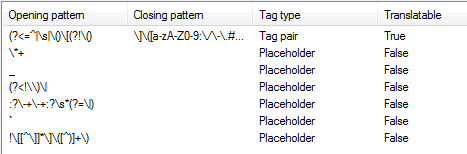
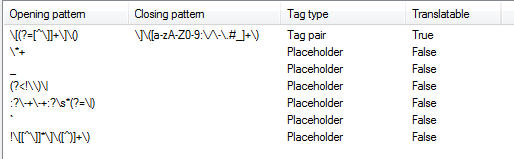
Fixed the link regular expression
It was partially matching on Angular binding syntax.  This generated warnings in Trados.  I changed it to use a long lookahead instead of validating by lookbehind.

diff --git a/tests/docfx-tests.js b/tests/docfx-tests.js
@@ -102,44 +102,50 @@ QUnit.test( "Regular paragraph text should be parsed", function (assert ) {
 
 QUnit.test( "Links without any special characters should be parsed", function (assert ) {
   var link = "[Please Google it](http://www.google.com)";
-  var regEx = /(?<=^|\s|\()\[(?!\()[^\]]+\]\([a-zA-Z0-9:\/\-\.#_]+\)/;
+  var regEx = /\[(?=[^\]]+\]\()[^\]]+\]\([a-zA-Z0-9:\/\-\.#_]+\)/;
   assert.ok( regEx.test(link), "The link without any special characters should be parsed in the given regular expression." );
 });
 
 QUnit.test( "Links with a # sign should be parsed", function (assert ) {
   var link = "[Please Google it](http://www.google.com#anchor)";
-  var regEx = /(?<=^|\s|\()\[(?!\()[^\]]+\]\([a-zA-Z0-9:\/\-\.#_]+\)/;
+  var regEx = /\[(?=[^\]]+\]\()[^\]]+\]\([a-zA-Z0-9:\/\-\.#_]+\)/;
   assert.ok( regEx.test(link), "The link with a # sign should be parsed in the given regular expression." );
 });
 
 QUnit.test( "Links with a # sign and an _ should be parsed", function (assert ) {
   var link = "[Please Google it](http://www.google.com#internal_anchor)";
-  var regEx = /(?<=^|\s|\()\[(?!\()[^\]]+\]\([a-zA-Z0-9:\/\-\.#_]+\)/;
+  var regEx = /\[(?=[^\]]+\]\()[^\]]+\]\([a-zA-Z0-9:\/\-\.#_]+\)/;
   assert.ok( regEx.test(link), "The link with a # sign and an _ should be parsed in the given regular expression." );
 });
 
 QUnit.test( "Links with numbers should be parsed", function (assert ) {
   var link = "[Please Google it](http://www.google999.com)";
-  var regEx = /(?<=^|\s|\()\[(?!\()[^\]]+\]\([a-zA-Z0-9:\/\-\.#_]+\)/;
+  var regEx = /\[(?=[^\]]+\]\()[^\]]+\]\([a-zA-Z0-9:\/\-\.#_]+\)/;
   assert.ok( regEx.test(link), "The link with numbers should be parsed in the given regular expression." );
 });
 
 QUnit.test( "Links with a / should be parsed", function (assert ) {
   var link = "[Please Google it](http://www.google.com/answer)";
-  var regEx = /(?<=^|\s|\()\[(?!\()[^\]]+\]\([a-zA-Z0-9:\/\-\.#_]+\)/;
+  var regEx = /\[(?=[^\]]+\]\()[^\]]+\]\([a-zA-Z0-9:\/\-\.#_]+\)/;
   assert.ok( regEx.test(link), "The link with a / should be parsed in the given regular expression." );
 });
 
 QUnit.test( "Links with a : should be parsed", function (assert ) {
   var link = "[Local URL](http://localhost:8080)";
-  var regEx = /(?<=^|\s|\()\[(?!\()[^\]]+\]\([a-zA-Z0-9:\/\-\.#_]+\)/;
+  var regEx = /\[(?=[^\]]+\]\()[^\]]+\]\([a-zA-Z0-9:\/\-\.#_]+\)/;
   assert.ok( regEx.test(link), "The link with a : should be parsed in the given regular expression." );
 });
 
 QUnit.test( "Links with a - should be parsed", function (assert ) {
   var link = "[Please Google it](http://www.google-it.com)";
-  var regEx = /(?<=^|\s|\()\[(?!\()[^\]]+\]\([a-zA-Z0-9:\/\-\.#_]+\)/;
+  var regEx = /\[(?=[^\]]+\]\()[^\]]+\]\([a-zA-Z0-9:\/\-\.#_]+\)/;
   assert.ok( regEx.test(link), "The link with a - should be parsed in the given regular expression." );
+});
+
+QUnit.test( "Angular bindings should not be parsed as links", function (assert ) {
+  var link = '[height]="null"';
+  var regEx = /\[(?=[^\]]+\]\()[^\]]+\]\([a-zA-Z0-9:\/\-\.#_]+\)/;
+  assert.notOk( regEx.test(link), "The binding syntax in Angular should not be parsed in the given regular expression." );
 });
 
 QUnit.test( "Bold text should be parsed", function (assert ) {

diff --git a/README.md b/README.md
@@ -42,7 +42,7 @@ The patterns written below are adapted to appear correctly in rendered markdown.
 
 | Opening Pattern  | Closing Pattern | Explanation |
 | ----- | ----- | ----- |
-| `(?<=^`&#x7c;`\s`&#x7c;`\()\[(?!\()` | `\]\([a-zA-Z0-9:\/\-\.#_]+\)` | Link tags (ex. `[Link text](link.url)`). |
+| `\[(?=[^\]]+\]\()` | `\]\([a-zA-Z0-9:\/\-\.#_]+\)` | Link tags (ex. `[Link text](link.url)`). |
 | `\*+` |  | Bold (`*`) or italic (`**`) tags. |
 | `_` |  | Italic (`_`) tags. |
 | `!\[[^\]]*\]\([^)]+\)` |  | Image (`![tooltip text](image.png)`) tags. |
